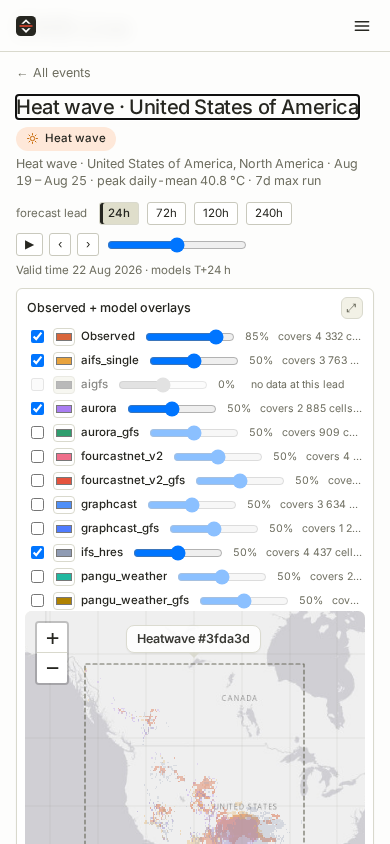
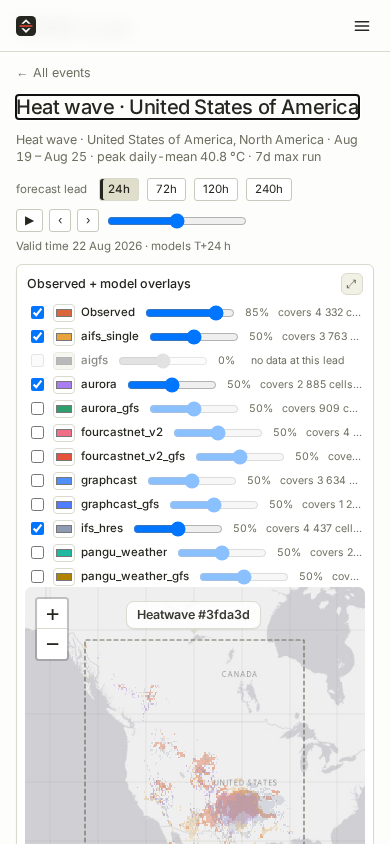
chips: correct a claim I had not checked — flood has no raw raster layer
The token comment and the design note both said flood's teal matches "the
lane's own FLOOD IMPACT ramp". mergedmap.js says otherwise: no raw exceedance
layer exists for flood (its evidence is IMERG accumulation behind the box), so
flood draws as boxes + Gantt rows only. The hue is pure identity — nothing on
the map was re-derived with it, which is a stronger, not a weaker, reason.

Changed region(s): [[0.0308, 0.1232, 0.9538, 1.0], [0.8615, 0.154, 0.9231, 0.2156], [0.2154, 0.4929, 0.2769, 0.5237]]

diff --git a/dashboard/styles.css b/dashboard/styles.css
@@ -55,11 +55,11 @@
   --series-tc:            #6f42c1;  --series-tc-soft:       #eee9ff;
   /* Flood (flood lane 2026-11-17; hue changed 2026-11-18, owner): TEAL /
      blue-green. The berry #9b255c it replaces read as a lighter twin of the TC
-     violet one chip away, and magenta is not what a flood map looks like.
-     Teal is the lane's own map ground (the FLOOD IMPACT ramp runs pale
-     blue-green → deep teal), so chip and raw layer finally agree. ΔE 18.0 from
-     the AR green beside it, 15.4 from the TC violet, 3.26:1 on paper. Not a
-     map-fill lane (boxes + Gantt only). */
+     violet one chip away. The lane has no raw raster of its own (mergedmap.js:
+     its evidence is IMERG accumulation behind the box, so it draws as boxes +
+     Gantt rows only), which means this hue is pure identity — nothing on the
+     map had to be re-derived with it. ΔE 18.0 from the AR green beside it,
+     15.4 from the TC violet, 3.26:1 on paper. */
   --series-flood:         #0f9ea4;  --series-flood-soft:    #d3f4f6;  /* teal / blue-green (owner: was magenta, which read as TC-adjacent): ΔE 18.0 from the AR green beside it, 3.26:1 on paper */
   /* Mid-latitude low (mlc lane 2026-11-17; hue changed 2026-11-18, owner): RED.
      Amber #7d5200 was another warm mark next to heat's warm mark and read as

diff --git a/notes/chips_design.md b/notes/chips_design.md
@@ -291,10 +291,10 @@ Light: band PASS, chroma PASS, **CVD 17.4 PASS, normal 18.0 PASS**, contrast
 PASS (worst mark 3.26:1). Dark: band PASS, chroma PASS, **CVD 12.6 PASS, normal
 15.1 PASS**, contrast PASS (worst mark 3.02:1). Both runs exit 0.
 
-Moves, and why: **flood → teal** `#9b255c→#0f9ea4` / `#da6b94→#028b77` (the
-lane's own FLOOD IMPACT map ramp is pale blue-green → deep teal, so chip and
-raw layer finally agree; berry read as a lighter twin of the TC violet one chip
-away). **midlat_cyclone → RED** `#7d5200→#a0312d` / `#c38823→#cf4a55`.
+Moves, and why: **flood → teal** `#9b255c→#0f9ea4` / `#da6b94→#028b77` (berry
+read as a lighter twin of the TC violet one chip away; the lane has **no raw
+raster layer** — `mergedmap.js` draws flood as boxes + Gantt rows only — so this
+hue is pure identity and nothing on the map had to move with it). **midlat_cyclone → RED** `#7d5200→#a0312d` / `#c38823→#cf4a55`.
 **heat_wave → orange** `#c6493c→#c86906` / `#e76761→#d67620` — the collision
 with the new MLC red was real, so heat moves a hue family off it rather than
 MLC moving off red. **cold_snap → ice-blue** `#0b859e→#4090ea` /
